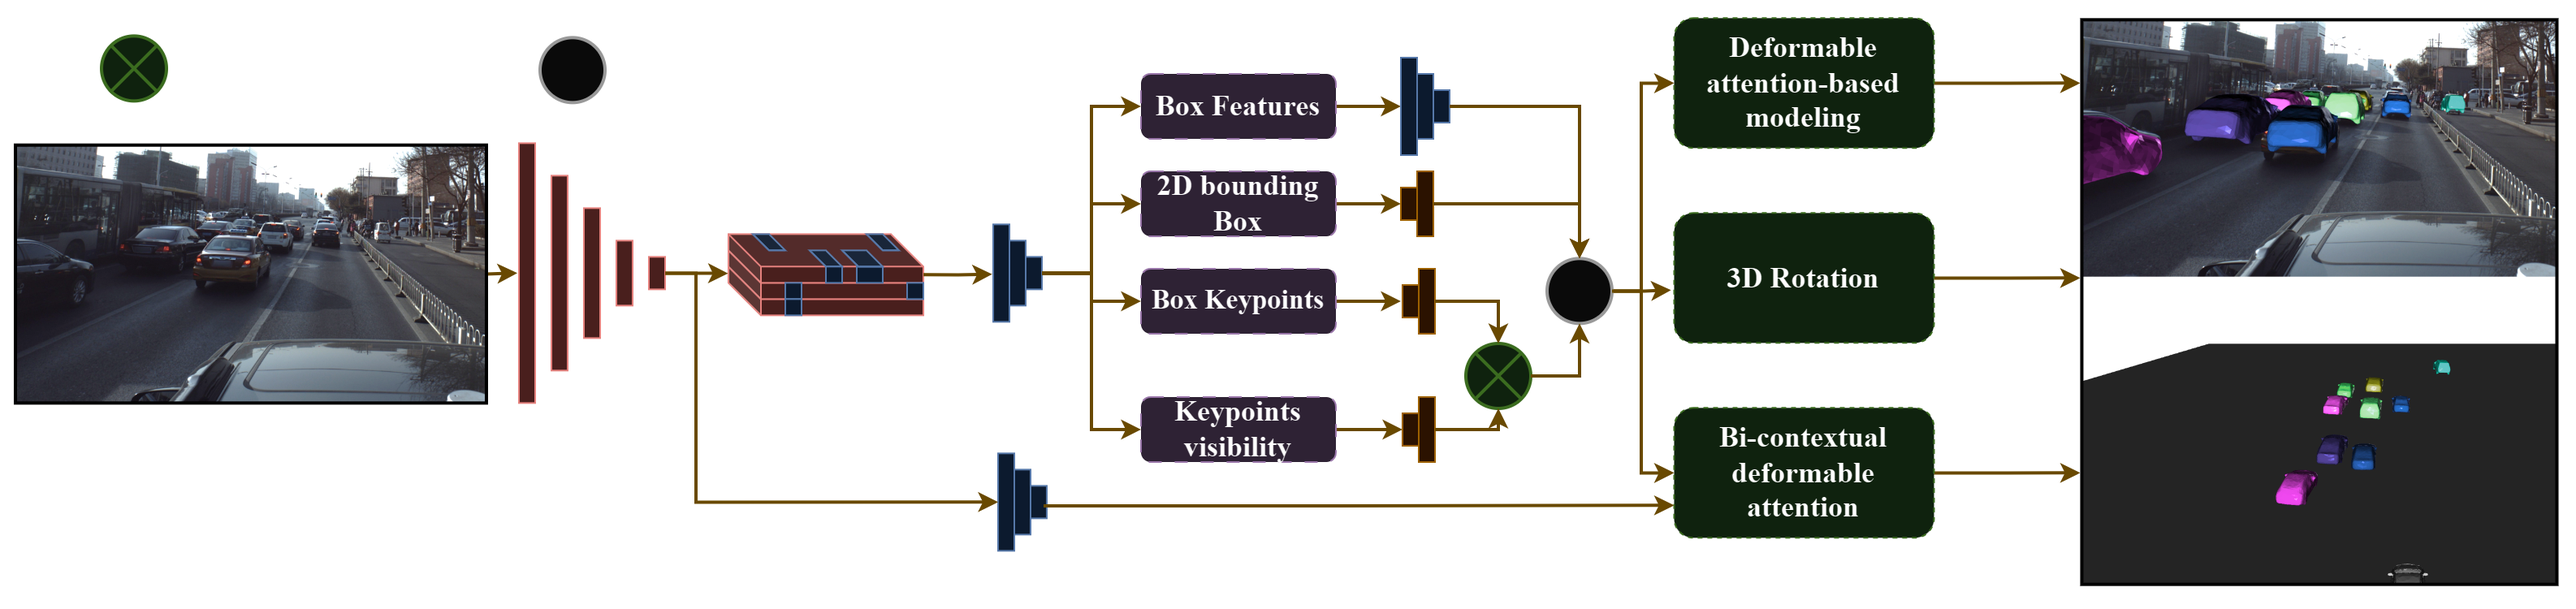
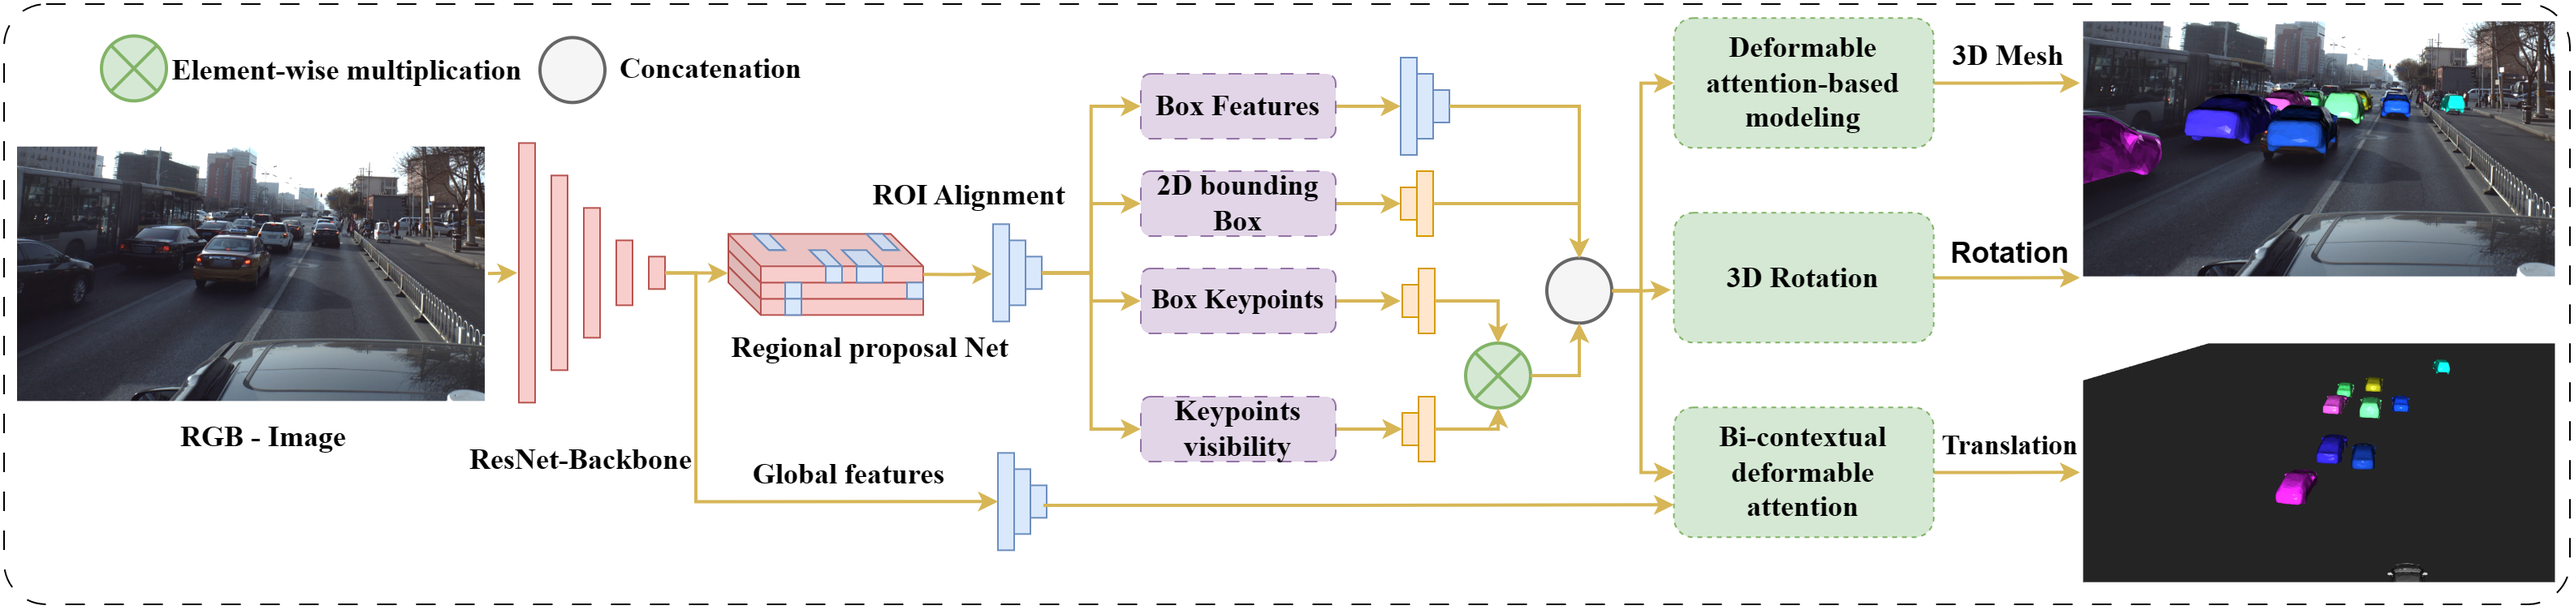
feat: Update main diagram

diff --git a/README.md b/README.md
@@ -14,7 +14,8 @@ Extensive experiments demonstrate that DAGM-Mono achieves state-of-the-art perfo
 
 ### DAGM-Mono Overview:
 <img src="./assets\DAGM-Mono.png" alt="drawing" width="800"/>
-
+<img src="./assets\DAGM-Block.png" alt="drawing" width="800"/>
+<img src="./assets\BCDA-Block.png" alt="drawing" width="800"/>
 
 ## Qualitative results on ApolloCar3D - Projection on original images:
 <!-- |---|---| -->
